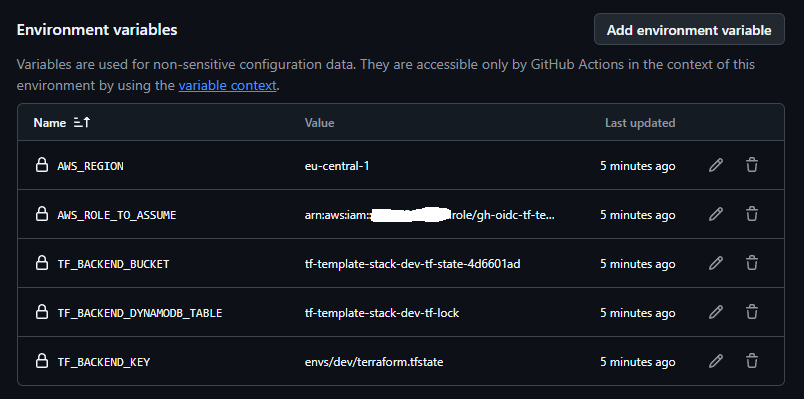
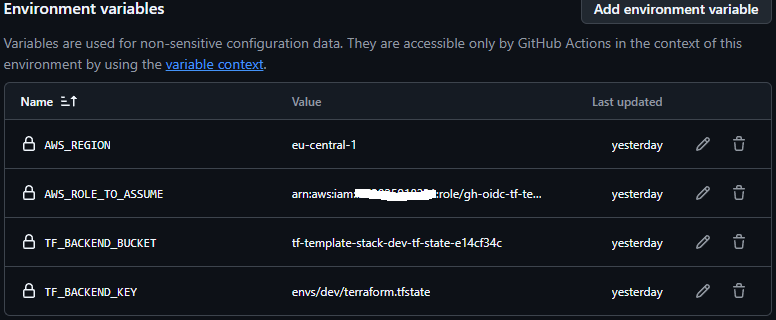
refactor(tooling): switch dev backend wiring to S3 lockfile

diff --git a/scripts/sync_github_env.py b/scripts/sync_github_env.py
@@ -24,7 +24,6 @@ REQUIRED_OUTPUTS = {
     "AWS_ROLE_TO_ASSUME": "github_actions_role_arn",
     "AWS_REGION": "aws_region",
     "TF_BACKEND_BUCKET": "tf_state_bucket_name",
-    "TF_BACKEND_DYNAMODB_TABLE": "tf_state_lock_table_name",
     "TF_BACKEND_KEY": "tf_backend_key",
 }
 

diff --git a/envs/dev/README.md b/envs/dev/README.md
@@ -12,7 +12,7 @@ It is part of the **tf-template-stack** and is designed to be:
 
 ## Remote backend model used in this template
 
-This template uses a **remote Terraform backend** (S3 + DynamoDB) for:
+This template uses a **remote Terraform backend** (S3 + lockfile-based state locking) for:
 
 * state storage
 * state locking
@@ -27,7 +27,6 @@ Instead:
 2. The bootstrap stack will:
 
    * create the S3 state bucket
-   * create the DynamoDB lock table
    * generate `envs/dev/backend.tf` automatically
    * create the GitHub Actions deployment role and configure OIDC trust used later for deployment automation
 
@@ -685,7 +684,6 @@ Expected GitHub Environment `dev` variables:
 - `AWS_ROLE_TO_ASSUME`
 - `AWS_REGION`
 - `TF_BACKEND_BUCKET`
-- `TF_BACKEND_DYNAMODB_TABLE`
 - `TF_BACKEND_KEY`
 
 Recommended value:
@@ -710,6 +708,8 @@ The deployment workflow:
 - runs Terraform `init`, `validate`, `plan`, and `apply`
 - waits for ECS service stability
 - verifies ALB target group health through AWS APIs
+
+The generated backend configuration uses the same lockfile-based S3 backend model as `bootstrap/dev`.
 
 Example validated GitHub Actions deploy workflow:
 

diff --git a/docs/runbooks/dev-validation-checklist.md b/docs/runbooks/dev-validation-checklist.md
@@ -32,7 +32,7 @@ terraform apply
 Verify:
 
 - Terraform state bucket exists
-- Terraform lock table exists
+- generated backend config uses S3 lockfile-based state locking
 - GitHub OIDC provider exists
 - GitHub Actions deploy role exists
 - `envs/dev/backend.tf` was generated
@@ -51,7 +51,6 @@ Verify GitHub Environment `dev` contains:
 - `AWS_ROLE_TO_ASSUME`
 - `AWS_REGION`
 - `TF_BACKEND_BUCKET`
-- `TF_BACKEND_DYNAMODB_TABLE`
 - `TF_BACKEND_KEY`
 
 ## 3. Deploy `envs/dev`
@@ -101,7 +100,6 @@ terraform destroy
 Verify:
 
 - Terraform state bucket is removed
-- Terraform lock table is removed
 - no manual bucket cleanup is required
 
 ## Recovery note
